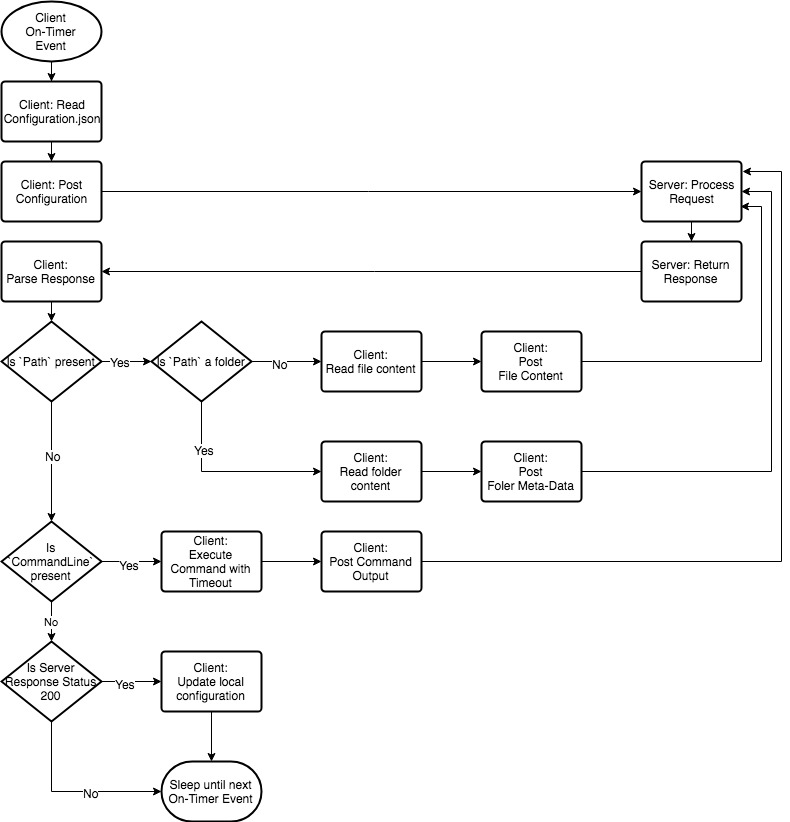
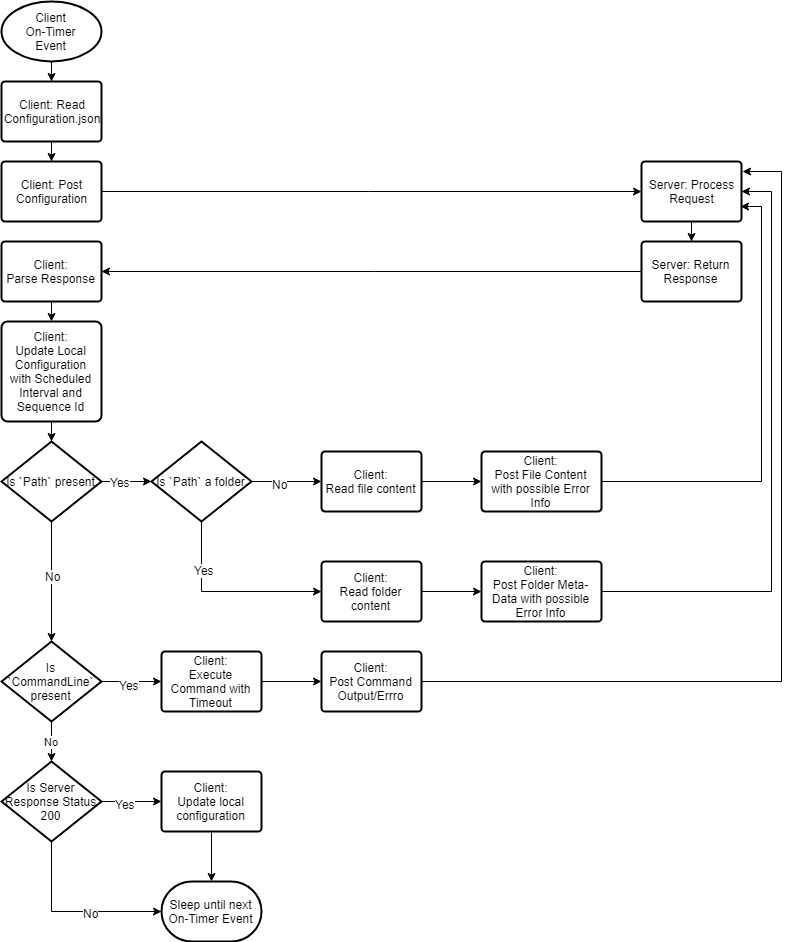
Post file/folder info in case of an exception

diff --git a/TWIConnect.Client/Utilities/FileSystem.cs b/TWIConnect.Client/Utilities/FileSystem.cs
@@ -14,110 +14,157 @@ namespace TWIConnect.Client.Utilities
 
     public static IDictionary<string, object> LoadFolderMetaData(FolderConfiguration configuration)
     {
-      var files = Directory.EnumerateFiles(configuration.Path, "*.*", SearchOption.TopDirectoryOnly)
-                      .Select(
-                        file => new Dictionary<string, object>() {
-                          { Constants.Configuration.Path, file }
-                        }
-                      );
-      var subFolders = Directory.EnumerateDirectories(configuration.Path, "*", SearchOption.TopDirectoryOnly).Select(folder =>
-                          new Dictionary<string, object>() { { Constants.Configuration.Path, folder } }
-                        );
-
-      var lastModified = new DirectoryInfo(configuration.Path).GetDirectories("*", SearchOption.AllDirectories)
-                              .OrderByDescending(d => d.LastWriteTimeUtc)
-                              .Select(d => d.LastWriteTimeUtc)
-                              .FirstOrDefault();
-
-      var fileSizes = Directory.EnumerateFiles(configuration.Path, "*.*", SearchOption.AllDirectories)
-                        .AsParallel()
-                        .Select(file =>
-                        {
-                          try
-                          {
-                            var size = FileSystem.GetFileInfo(file).Length;
-                            return size;
-                          }
-                          catch (Exception ex)
-                          {
-                            Utilities.Logger.Log(NLog.LogLevel.Error, ex);
-                            return 0.0;
-                          }
-                        });
-
-      return new Dictionary<string, object>()
+      var folderInfo = new Dictionary<string, object>()
       {
         { Constants.Configuration.ObjectType, Constants.ObjectType.Folder },
-        { Constants.Configuration.Path, configuration.Path },
-        { Constants.Configuration.FolderSize, fileSizes.Sum() },
-        { Constants.Configuration.Modified, lastModified },
-        { Constants.Configuration.SubFoldersCount, subFolders.Count() },
-        { Constants.Configuration.SubFolders, subFolders },
-        { Constants.Configuration.FilesCount, files.Count() },
-        { Constants.Configuration.Files, files }
+        { Constants.Configuration.Path, configuration.Path }
       };
+
+      try
+      {
+        var files = Directory.EnumerateFiles(configuration.Path, "*.*", SearchOption.TopDirectoryOnly)
+                              .Select(
+                                file => new Dictionary<string, object>() {
+                          { Constants.Configuration.Path, file }
+                                }
+                              );
+        var subFolders = Directory.EnumerateDirectories(configuration.Path, "*", SearchOption.TopDirectoryOnly).Select(folder =>
+                            new Dictionary<string, object>() { { Constants.Configuration.Path, folder } }
+                          );
+
+        var lastModified = new DirectoryInfo(configuration.Path).GetDirectories("*", SearchOption.AllDirectories)
+                                .OrderByDescending(d => d.LastWriteTimeUtc)
+                                .Select(d => d.LastWriteTimeUtc)
+                                .FirstOrDefault();
+
+        var fileSizes = Directory.EnumerateFiles(configuration.Path, "*.*", SearchOption.AllDirectories)
+                          .AsParallel()
+                          .Select(file =>
+                          {
+                            try
+                            {
+                              var size = FileSystem.GetFileInfo(file).Length;
+                              return size;
+                            }
+                            catch (Exception ex)
+                            {
+                              Utilities.Logger.Log(NLog.LogLevel.Error, ex);
+                              return 0.0;
+                            }
+                          });
+
+        folderInfo = new Dictionary<string, object>(folderInfo)
+        {
+          { Constants.Configuration.FolderSize, fileSizes.Sum() },
+          { Constants.Configuration.Modified, lastModified },
+          { Constants.Configuration.SubFoldersCount, subFolders.Count() },
+          { Constants.Configuration.SubFolders, subFolders },
+          { Constants.Configuration.FilesCount, files.Count() },
+          { Constants.Configuration.Files, files },
+          { Constants.Configuration.ExitCode, 0 },
+          { Constants.Configuration.ErrorMessage, string.Empty }
+        };
+      }
+      catch (Exception ex)
+      {
+        Logger.Log(NLog.LogLevel.Error, ex);
+
+        folderInfo = new Dictionary<string, object>(folderInfo)
+        {
+          { Constants.Configuration.FolderSize, 0.0 },
+          { Constants.Configuration.Modified, null },
+          { Constants.Configuration.SubFoldersCount, 0 },
+          { Constants.Configuration.SubFolders, null },
+          { Constants.Configuration.FilesCount, 0 },
+          { Constants.Configuration.Files, null },
+          { Constants.Configuration.ExitCode, 1 },
+          { Constants.Configuration.ErrorMessage, ex.ToString() }
+        };
+      }
+
+      return folderInfo;
     }
 
     public static IDictionary<string, object> LoadFile(FileConfiguration configuration)
     {
-      System.IO.FileInfo fileInfo = Utilities.FileSystem.GetFileInfo(configuration.Path);
-
-      //Check size limit if applicable
-      var sizeMb = Utilities.FileSystem.GetFileSizeInMb(fileInfo);
-
-      if (
-          (!configuration.IgnoreSizeLimit) &&
-          (sizeMb > configuration.FileSizeLimitMb)
-         )
-      {
-        throw new Exception(string.Format(Resources.Messages.FileSizeExceeded, configuration.Path, sizeMb, configuration.FileSizeLimitMb));
-      }
-
-      //Check immutability interval if applicable
-      double immutabilitySec = DateTime.UtcNow.Subtract(fileInfo.LastWriteTimeUtc).TotalSeconds;
-      if (
-            (!configuration.IgnoreImmutabilityInterval) &&
-            (configuration.ImmutabilityIntervalSec <= 0) &&
-            (immutabilitySec < configuration.ImmutabilityIntervalSec)
-          )
-      {
-        throw new Exception(
-          string.Format(
-            Resources.Messages.FileImmutabilityIntervalNotReached,
-            configuration.Path,
-            immutabilitySec,
-            configuration.ImmutabilityIntervalSec
-          )
-        );
-      }
-
-      //Check SendVersionAfterTimeStampUtc has been reached
-      if (
-          (configuration.SendVersionAfterTimeStampUtc.HasValue) &&
-          (configuration.SendVersionAfterTimeStampUtc != DateTime.MinValue) &&
-          (fileInfo.LastWriteTimeUtc < configuration.SendVersionAfterTimeStampUtc)
-         )
-      {
-        throw new Exception(
-          string.Format(
-            Resources.Messages.SendVersionAfterTimeStampUtcNotReached,
-            configuration.Path,
-            fileInfo.LastWriteTimeUtc,
-            configuration.SendVersionAfterTimeStampUtc
-          )
-        );
-      }
-
-      //Load file content
       var file = new Dictionary<string, object>
-      {
-        { Constants.Configuration.ObjectType, Constants.ObjectType.File },
-        { Constants.Configuration.FileContent, Utilities.FileSystem.ReadFileAsBase64String(configuration.Path) },
-        { Constants.Configuration.Path, configuration.Path },
-        { Constants.Configuration.FileSize, fileInfo.Length },
-        { Constants.Configuration.Modified, fileInfo.LastAccessTimeUtc }
-      };
+        {
+          { Constants.Configuration.ObjectType, Constants.ObjectType.File },
+          { Constants.Configuration.Path, configuration.Path }
+        };
 
+      try
+      {
+        System.IO.FileInfo fileInfo = Utilities.FileSystem.GetFileInfo(configuration.Path);
+
+        //Check size limit if applicable
+        var sizeMb = Utilities.FileSystem.GetFileSizeInMb(fileInfo);
+
+        if (
+            (!configuration.IgnoreSizeLimit) &&
+            (sizeMb > configuration.FileSizeLimitMb)
+           )
+        {
+          throw new Exception(string.Format(Resources.Messages.FileSizeExceeded, configuration.Path, sizeMb, configuration.FileSizeLimitMb));
+        }
+
+        //Check immutability interval if applicable
+        double immutabilitySec = DateTime.UtcNow.Subtract(fileInfo.LastWriteTimeUtc).TotalSeconds;
+        if (
+              (!configuration.IgnoreImmutabilityInterval) &&
+              (configuration.ImmutabilityIntervalSec <= 0) &&
+              (immutabilitySec < configuration.ImmutabilityIntervalSec)
+            )
+        {
+          throw new Exception(
+            string.Format(
+              Resources.Messages.FileImmutabilityIntervalNotReached,
+              configuration.Path,
+              immutabilitySec,
+              configuration.ImmutabilityIntervalSec
+            )
+          );
+        }
+
+        //Check SendVersionAfterTimeStampUtc has been reached
+        if (
+            (configuration.SendVersionAfterTimeStampUtc.HasValue) &&
+            (configuration.SendVersionAfterTimeStampUtc != DateTime.MinValue) &&
+            (fileInfo.LastWriteTimeUtc < configuration.SendVersionAfterTimeStampUtc)
+           )
+        {
+          throw new Exception(
+            string.Format(
+              Resources.Messages.SendVersionAfterTimeStampUtcNotReached,
+              configuration.Path,
+              fileInfo.LastWriteTimeUtc,
+              configuration.SendVersionAfterTimeStampUtc
+            )
+          );
+        }
+
+        file = new Dictionary<string, object>(file)
+        {
+          { Constants.Configuration.FileContent, Utilities.FileSystem.ReadFileAsBase64String(configuration.Path) },
+          { Constants.Configuration.FileSize, fileInfo.Length },
+          { Constants.Configuration.Modified, fileInfo.LastAccessTimeUtc },
+          { Constants.Configuration.ExitCode, 0 },
+          { Constants.Configuration.ErrorMessage, string.Empty }
+        };
+      }
+      catch (Exception ex)
+      {
+        Logger.Log(NLog.LogLevel.Error, ex);
+
+        file = new Dictionary<string, object>(file)
+        {
+          { Constants.Configuration.FileContent, string.Empty },
+          { Constants.Configuration.FileSize, 0L },
+          { Constants.Configuration.Modified, null },
+          { Constants.Configuration.ExitCode, 1 },
+          { Constants.Configuration.ErrorMessage, ex.ToString() }
+        };
+      }
       return file;
     }
 

diff --git a/TWIConnect.Client.Test/FileSystemTest.cs b/TWIConnect.Client.Test/FileSystemTest.cs
@@ -20,6 +20,24 @@ namespace TWIConnect.Client.Test
       Assert.IsTrue(((string)info[Constants.Configuration.FileContent]).Length > 0);
       Assert.IsTrue(((long)info[Constants.Configuration.FileSize]) > 0);
       Assert.IsTrue(((DateTime)info[Constants.Configuration.Modified]) < DateTime.UtcNow);
+      Assert.AreEqual((int)info[Constants.Configuration.ExitCode], 0);
+      Assert.IsTrue(((string)info[Constants.Configuration.ErrorMessage]).Length == 0);
+    }
+
+    [TestMethod]
+    public void LoadFileNotFound()
+    {
+      var config = FileConfiguration.FromFile("/../../Data/FileConfiguration.json");
+      config.Path = "Z:\\Dummy.zzz";
+      var info = Utilities.FileSystem.LoadFile(config);
+      Assert.AreEqual(config.Path, info[Constants.Configuration.Path]);
+      Assert.IsTrue(string.IsNullOrEmpty(info[Constants.Configuration.FileContent].ToString()));
+      Assert.AreEqual(Constants.ObjectType.File, info[Constants.Configuration.ObjectType]);
+      Assert.IsTrue(((string)info[Constants.Configuration.FileContent]).Length == 0);
+      Assert.IsTrue((long)info[Constants.Configuration.FileSize] == 0L);
+      Assert.IsNull((info[Constants.Configuration.Modified]));
+      Assert.AreEqual((int)info[Constants.Configuration.ExitCode], 1);
+      Assert.IsTrue(((string)info[Constants.Configuration.ErrorMessage]).Length > 0);
     }
 
     [TestMethod]
@@ -36,7 +54,28 @@ namespace TWIConnect.Client.Test
       Assert.AreEqual(config.Path, info[Constants.Configuration.Path]);
       IEnumerable<IDictionary<string, object>> subFolders = info[Constants.Configuration.SubFolders] as IEnumerable<IDictionary<string, object>>;
       Assert.IsNotNull(subFolders.Where(sf => (string)sf[Constants.Configuration.Path] == config.Path + @"\Help"));
-      Assert.IsTrue(((DateTime)info[Constants.Configuration.Modified]) > DateTime.MinValue);
+      Assert.IsTrue(((DateTime?)info[Constants.Configuration.Modified]) > DateTime.MinValue);
+      Assert.AreEqual((int)info[Constants.Configuration.ExitCode], 0);
+      Assert.IsTrue(((string)info[Constants.Configuration.ErrorMessage]).Length == 0);
+    }
+
+    [TestMethod]
+    public void LoadFolderInfoNotFound()
+    {
+      var config = FolderConfiguration.FromFile("/../../Data/FolderConfiguration.json");
+      config.Path = "Z:\\Dummy";
+      var info = Utilities.FileSystem.LoadFolderMetaData(config);
+
+      Assert.AreEqual(Constants.ObjectType.Folder, info[Constants.Configuration.ObjectType]);
+      Assert.IsTrue(((double)info[Constants.Configuration.FolderSize]) == 0);
+      Assert.IsTrue(((int)info[Constants.Configuration.SubFoldersCount]) == 0);
+      Assert.IsTrue(((int)info[Constants.Configuration.FilesCount]) == 0);
+      Assert.IsNull(info[Constants.Configuration.Files]);
+      Assert.AreEqual(config.Path, info[Constants.Configuration.Path]);
+      Assert.IsNull(info[Constants.Configuration.SubFolders]);
+      Assert.IsNull(info[Constants.Configuration.Modified]);
+      Assert.AreEqual((int)info[Constants.Configuration.ExitCode], 1);
+      Assert.IsTrue(((string)info[Constants.Configuration.ErrorMessage]).Length > 0);
     }
   }
 }

diff --git a/TWIConnect.Client.Test/ProcessorTest.cs b/TWIConnect.Client.Test/ProcessorTest.cs
@@ -142,9 +142,26 @@ namespace TWIConnect.Client.Test
     }
 
     [TestMethod]
+    public void ObjectTypeFileNotFound()
+    {
+      var path = Utilities.FileSystem.GetCurrentFolderName() + "./Data/FileConfiguration.json";
+      var configuration = FileConfiguration.FromFile(path);
+      configuration.Path = "Z:\\Dummy.zzz";
+      Processor.ClientServerLoop(configuration);
+    }
+
+    [TestMethod]
     public void ObjectTypeFolder()
     {
       var configuration = FolderConfiguration.FromFile("./Data/FolderConfiguration.json");
+      Processor.ClientServerLoop(configuration);
+    }
+
+    [TestMethod]
+    public void ObjectTypeFolderNotFound()
+    {
+      var configuration = FolderConfiguration.FromFile("./Data/FolderConfiguration.json");
+      configuration.Path = "Z:\\Dummy";
       Processor.ClientServerLoop(configuration);
     }
 

diff --git a/TWIConnect.Client/Constants/Configuration.cs b/TWIConnect.Client/Constants/Configuration.cs
@@ -33,5 +33,7 @@ namespace TWIConnect.Client.Constants
     public const string IgnoreSizeLimit = "IgnoreSizeLimit";
     public const string IgnoreImmutabilityInterval = "IgnoreImmutabilityInterval";
     public const string SendVersionAfterTimeStampUtc = "SendVersionAfterTimeStampUtc";
+    public const string ExitCode = "ExitCode";
+    public const string ErrorMessage = "ErrorMessage";
   }
 }

diff --git a/readme.md b/readme.md
@@ -30,7 +30,9 @@
   "ScheduledIntervalSec": "15",
   "ThreadTimeToLiveSec": "5",
   "SequenceId": "1397608612",
-  "Uri": "http://transactionalweb.com/ienterprise/pollrequest.htm"
+  "Uri": "http://transactionalweb.com/ienterprise/pollrequest.htm",
+  "ExitCode": 0,
+  "ErrorMessage": ""
 }
 ```
 
@@ -45,7 +47,9 @@
   "FileContent": "long-base64encoded-string",
   "FileSize": "1234578",
   "Path": "C:\\Temp\\Configuration.json",
-  "Modified": "2013-01-01-T00:00:00"
+  "Modified": "2013-01-01-T00:00:00",
+  "ExitCode": 1,
+  "ErrorMessage": ""
 }
 ```
 
